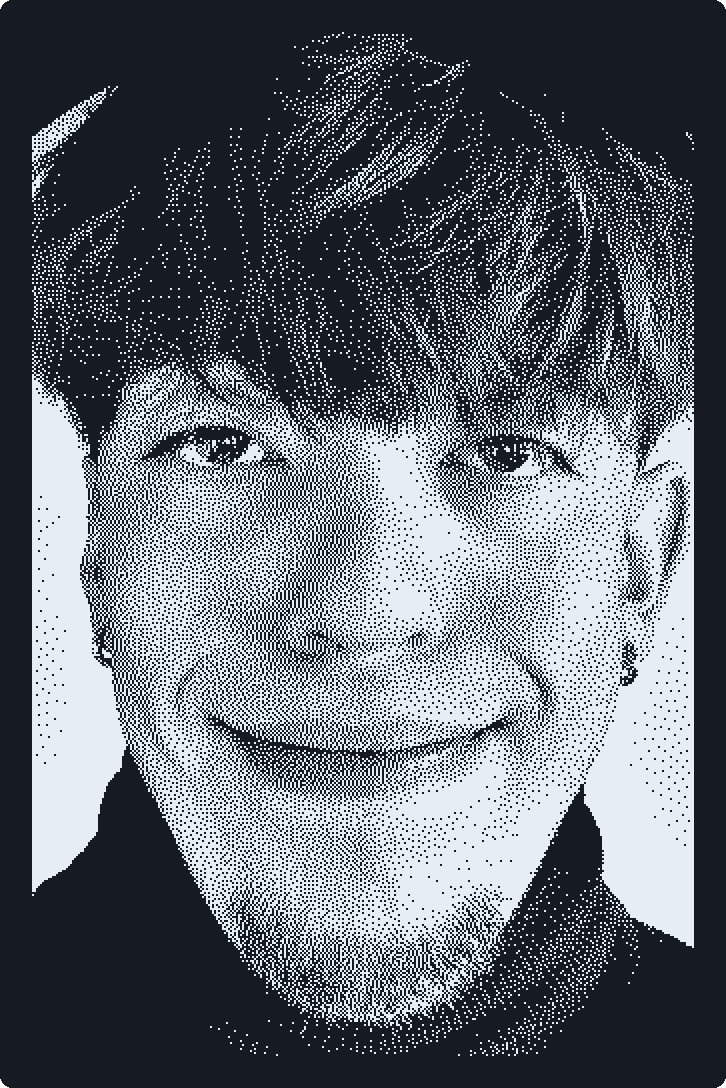
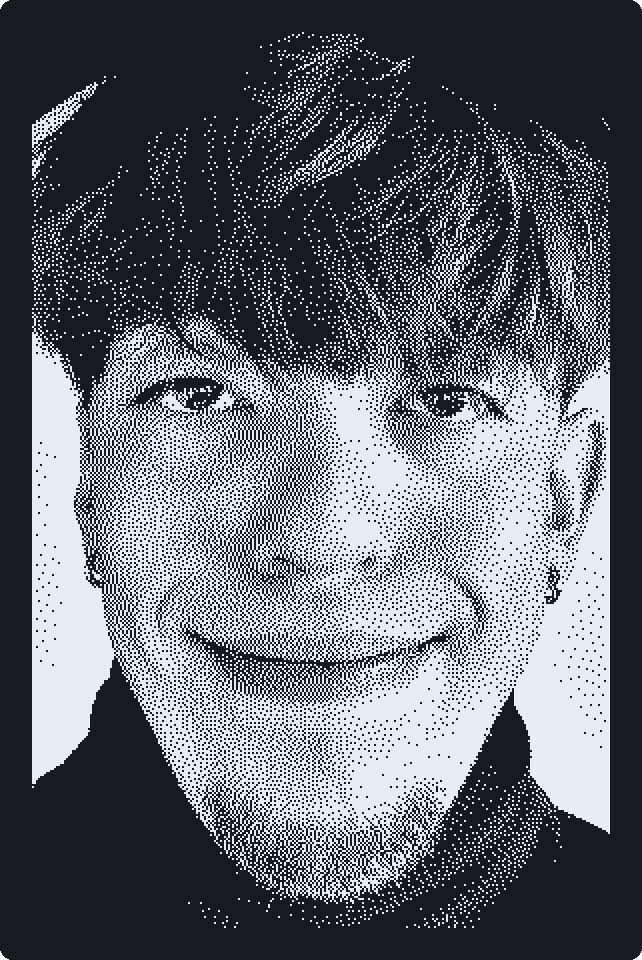
Ajustar alto del retrato al panel

diff --git a/README.md b/README.md
@@ -1,7 +1,7 @@
 <picture>
   <source media="(prefers-color-scheme: dark)" srcset="assets/portrait-dark.png">
   <source media="(prefers-color-scheme: light)" srcset="assets/portrait-light.png">
-  <img align="right" src="assets/portrait-light.png" width="363" alt="Retrato de Tomás Monge en arte de puntos">
+  <img align="right" src="assets/portrait-light.png" width="321" alt="Retrato de Tomás Monge en arte de puntos">
 </picture>
 
 ```yaml
